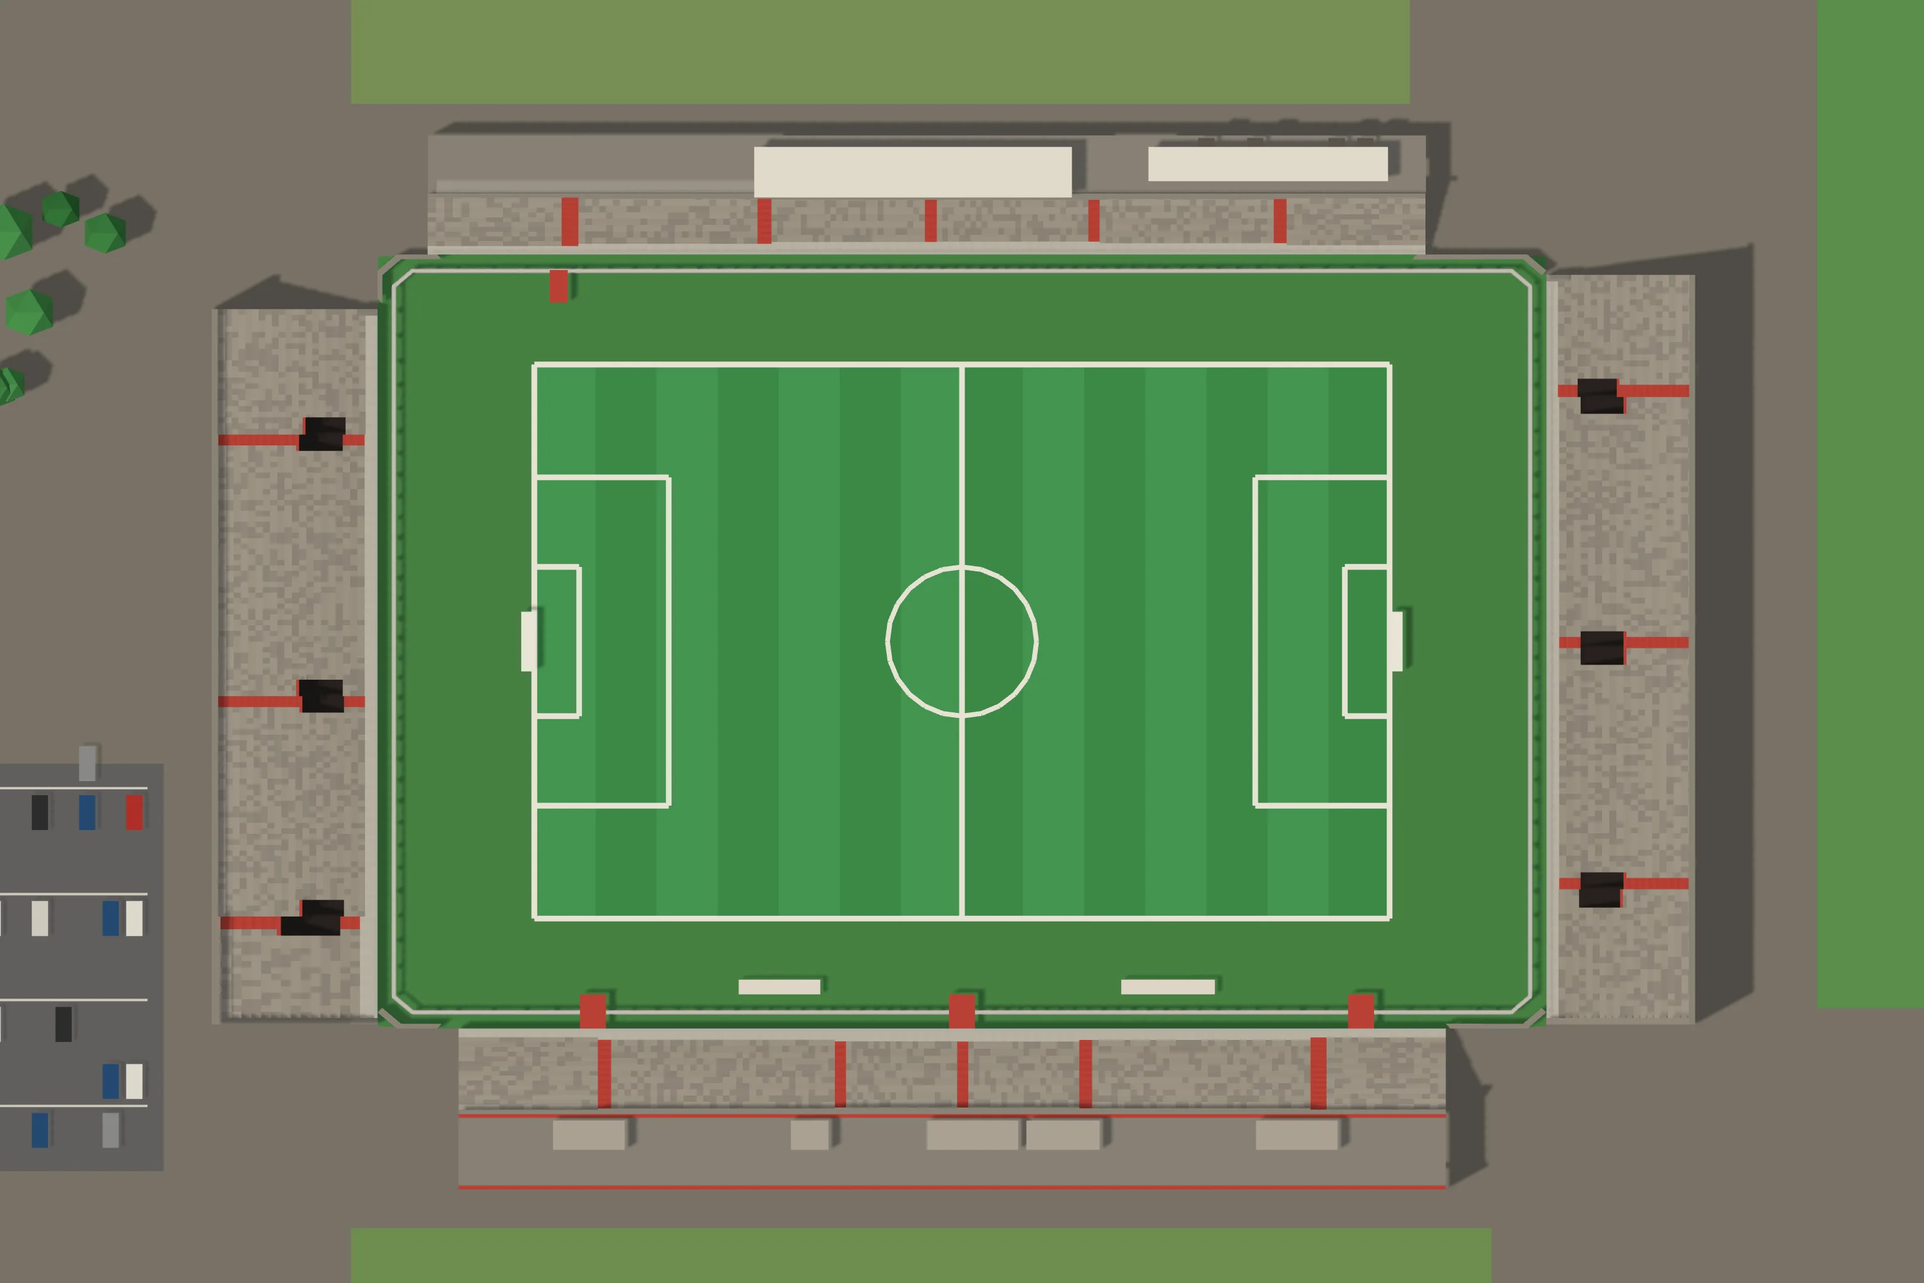
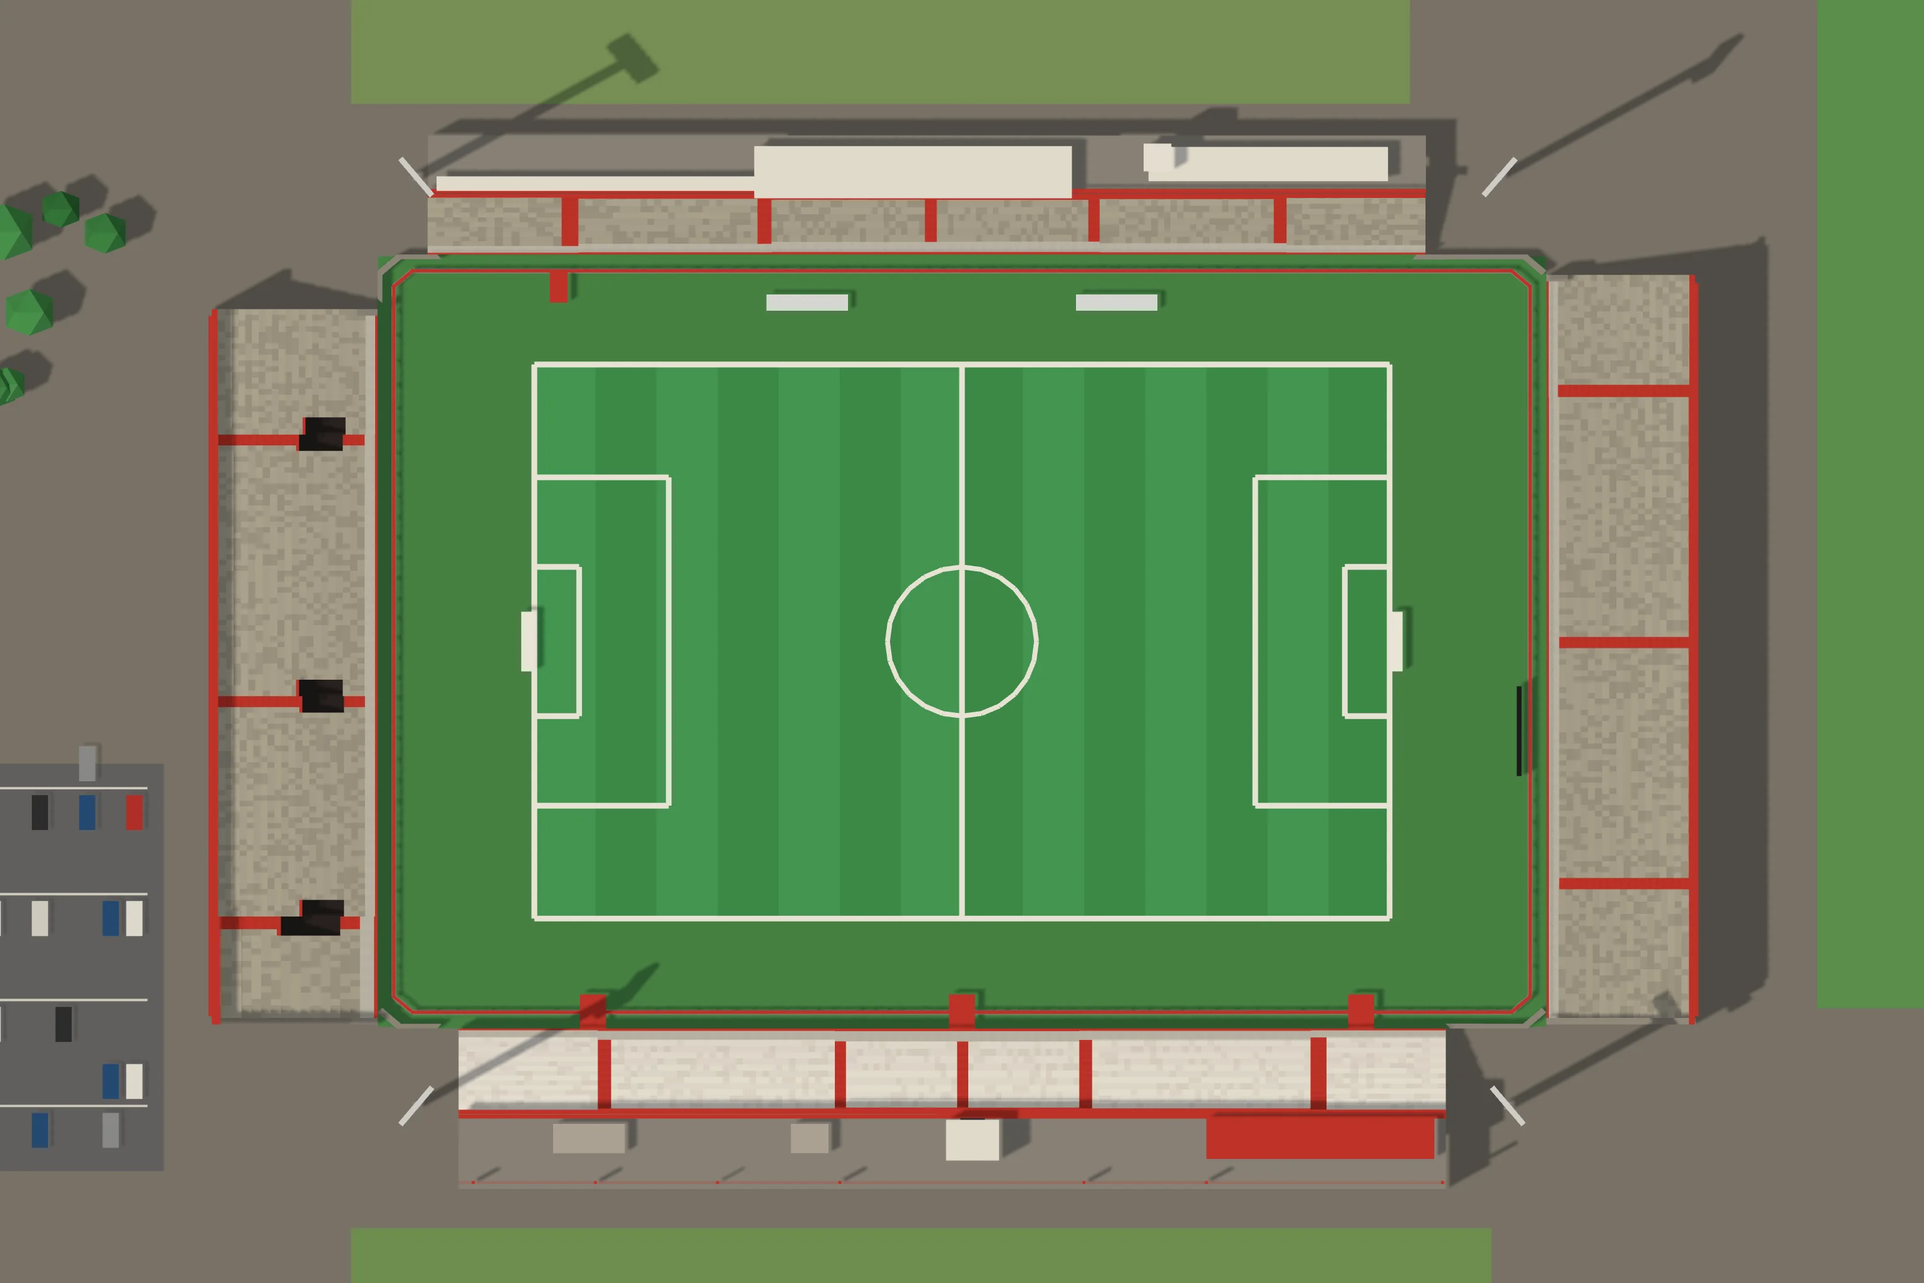
Giulite Coutinho pelas fotos do dono: dizeres dos fundos, arquibancadas elevadas, lateral branca, torres e placar
Claude-Session: https://claude.ai/code/session_019hwwMAyyP7ZAvyq6wYTetr

diff --git a/cenario3d/planta.html b/cenario3d/planta.html
@@ -289,24 +289,24 @@ button:focus-visible, input:focus-visible { outline: 2px solid var(--selecao); o
 
 <script type="module">
 import * as THREE from 'https://cdn.jsdelivr.net/npm/three@0.160.0/build/three.module.min.js';
-import { planoDaCasa, montarCasa, juntarBlocos, lugarDoDecalque, placasDoLote, segmentosDoMuro, carrosDoEstacionamento, portaoDoEstacionamento } from './js/casas3d.js?v=61d30abeb0';
-import { montarModelos } from './js/modelos3d.js?v=61d30abeb0';
-import { moldeDaPeca, comTransformador } from './js/props3d.js?v=61d30abeb0';
-import { ATLAS } from './js/modelos_atlas.js?v=61d30abeb0';
-import { Construtor, sorteio } from './js/construtor3d.js?v=61d30abeb0';
-import { gerarProposta, MAPAS, MAPA_DO_PORTE, RUA, LONGE_DO_ESTADIO_M, cisaoDaPraca, VAO_CIDADES_M, PRAIA_A_MAIS } from './js/proposta.js?v=61d30abeb0';
-import { montarSede, nivelQueCabe } from './js/sede3d.js?v=61d30abeb0';
-import { onibus as onibusDetalhe, juntar as juntarDetalhe } from './js/detalhe3d.js?v=61d30abeb0';
-import { montarLoteDeVeraneio, plantaDoLote, festaNoMundo, noMundoDoLote, cenaDaFesta, detalheDaCasaDaFesta } from './js/veraneio3d.js?v=61d30abeb0';
-import { montarCaravana, cenaDaCaravana } from './js/caravana3d.js?v=61d30abeb0';
-import { montarEstacao, montarTunel, montarCarro, TREM } from './js/metro3d.js?v=61d30abeb0';
-import { montarShopping, montarDelegacia, montarPraca, montarIgreja, montarEscola, montarHospital } from './js/equip3d.js?v=61d30abeb0';
-import { montarEquipAntigo, TIPOS_ANTIGOS } from './js/equip_antigo3d.js?v=61d30abeb0';
-import { PECAS_PRAIA, montarPecaDaPraia } from './js/praia3d.js?v=61d30abeb0';
-import { ESPECIES_LP, FLORA_LP, montarArvoreLowpoly, montarAsDez, facesDaArvore, especieLowpolyDe } from './js/arvores_lowpoly.js?v=61d30abeb0';
-import { plantarMato, montarMato, LONGE_M, DENSIDADE, LADRILHO_M } from './js/mato3d.js?v=61d30abeb0';
-import { ESTADIOS_JOGO, montarEstadioJogo, glbDoEstadio, cortarEstadio, plantaDoEstadio, modeloDaLotacao, nomeDoLetreiro, nomeComAcento, marcaDoEstadio, BOCAS_DOS_PORTOES, BILHETERIAS_DA_RUA } from './js/estadios3d.js?v=61d30abeb0';
-import { PECAS_AMBULANTES, montarAmbulante } from './js/ambulantes3d.js?v=61d30abeb0';
+import { planoDaCasa, montarCasa, juntarBlocos, lugarDoDecalque, placasDoLote, segmentosDoMuro, carrosDoEstacionamento, portaoDoEstacionamento } from './js/casas3d.js?v=4b17414e54';
+import { montarModelos } from './js/modelos3d.js?v=4b17414e54';
+import { moldeDaPeca, comTransformador } from './js/props3d.js?v=4b17414e54';
+import { ATLAS } from './js/modelos_atlas.js?v=4b17414e54';
+import { Construtor, sorteio } from './js/construtor3d.js?v=4b17414e54';
+import { gerarProposta, MAPAS, MAPA_DO_PORTE, RUA, LONGE_DO_ESTADIO_M, cisaoDaPraca, VAO_CIDADES_M, PRAIA_A_MAIS } from './js/proposta.js?v=4b17414e54';
+import { montarSede, nivelQueCabe } from './js/sede3d.js?v=4b17414e54';
+import { onibus as onibusDetalhe, juntar as juntarDetalhe } from './js/detalhe3d.js?v=4b17414e54';
+import { montarLoteDeVeraneio, plantaDoLote, festaNoMundo, noMundoDoLote, cenaDaFesta, detalheDaCasaDaFesta } from './js/veraneio3d.js?v=4b17414e54';
+import { montarCaravana, cenaDaCaravana } from './js/caravana3d.js?v=4b17414e54';
+import { montarEstacao, montarTunel, montarCarro, TREM } from './js/metro3d.js?v=4b17414e54';
+import { montarShopping, montarDelegacia, montarPraca, montarIgreja, montarEscola, montarHospital } from './js/equip3d.js?v=4b17414e54';
+import { montarEquipAntigo, TIPOS_ANTIGOS } from './js/equip_antigo3d.js?v=4b17414e54';
+import { PECAS_PRAIA, montarPecaDaPraia } from './js/praia3d.js?v=4b17414e54';
+import { ESPECIES_LP, FLORA_LP, montarArvoreLowpoly, montarAsDez, facesDaArvore, especieLowpolyDe } from './js/arvores_lowpoly.js?v=4b17414e54';
+import { plantarMato, montarMato, LONGE_M, DENSIDADE, LADRILHO_M } from './js/mato3d.js?v=4b17414e54';
+import { ESTADIOS_JOGO, montarEstadioJogo, glbDoEstadio, cortarEstadio, plantaDoEstadio, modeloDaLotacao, nomeDoLetreiro, nomeComAcento, marcaDoEstadio, BOCAS_DOS_PORTOES, BILHETERIAS_DA_RUA } from './js/estadios3d.js?v=4b17414e54';
+import { PECAS_AMBULANTES, montarAmbulante } from './js/ambulantes3d.js?v=4b17414e54';
 
 const $ = id => document.getElementById(id);
 const aviso = $('aviso');
@@ -323,25 +323,25 @@ function carregarScript(src) {
 }
 window.TO = window.TO || { dados: {} };
 try {
-  await carregarScript('dados/torcidas.js?v=61d30abeb0');
-  await carregarScript('dados/times.js?v=61d30abeb0');
-  await carregarScript('dados/cena_estadio.js?v=61d30abeb0');
-  await carregarScript('dados/cidades.js?v=61d30abeb0');
-  await carregarScript('dados/estadios.js?v=61d30abeb0');
-  await carregarScript('dados/escudos.js?v=61d30abeb0');
+  await carregarScript('dados/torcidas.js?v=4b17414e54');
+  await carregarScript('dados/times.js?v=4b17414e54');
+  await carregarScript('dados/cena_estadio.js?v=4b17414e54');
+  await carregarScript('dados/cidades.js?v=4b17414e54');
+  await carregarScript('dados/estadios.js?v=4b17414e54');
+  await carregarScript('dados/escudos.js?v=4b17414e54');
   /* o manifesto das faixas de verdade (a arte do dono, 29/09/2026): a arquibancada estende a da torcida */
-  await carregarScript('dados/faixas.js?v=61d30abeb0').catch(() => {});
+  await carregarScript('dados/faixas.js?v=4b17414e54').catch(() => {});
   /* O DOMÍNIO DOS BAIRROS (o dono, 30/09/2026): as sedes repetidas num
      bairro saem espalhadas (nos dados, na carga) e os bares ganham o
      bairro deles — o mesmo módulo do jogo (js/mundo/dominio.js) */
-  await carregarScript('js/dominio.js?v=61d30abeb0').catch(() => {});
+  await carregarScript('js/dominio.js?v=4b17414e54').catch(() => {});
 } catch (e) {
   aviso.textContent = 'A planta da cidade não carregou (' + e.message + '). Recarregue a página.';
   throw e;
 }
 /* os PNG dos escudos, embutidos (o montar.sh gera): sem o arquivo, o
    caminho vai direto pra img/escudos/ */
-await carregarScript('dados/escudos_embutidos.js?v=61d30abeb0').catch(() => {});
+await carregarScript('dados/escudos_embutidos.js?v=4b17414e54').catch(() => {});
 const P = TO.dados.plantaEstadio, K = P.CIDADE, M = P.METRO, CALC = K.CALC;
 /* o mapa da vez (o pequeno, o médio ou o grande, montado pra praça
    escolhida): quem monta é usarMapa, lá embaixo */

diff --git a/cenario3d/dados/estadios_cenas.js b/cenario3d/dados/estadios_cenas.js
@@ -14567,7 +14567,7 @@ window.__ESTADIOS = {
    "visitante": 3
   },
   "foto": {
-   "imagem": "img/cenas/estadio_giulite_coutinho.webp?v=6a7214b4",
+   "imagem": "img/cenas/estadio_giulite_coutinho.webp?v=d06fc9ec",
    "mascara": "384;384;384;384;384;384;384;384;384;384;384;384;384;384;384;384;384;384;384;384;384;384;384;384;384;384;384;384;384;384;384;384;384;384;384;384;384;384;384;76,222,86;76,221,87;76,220,88;76,218,90;76,217,91;77,215,92;78,213,93;80,210,94;81,207,96;82,205,97;84,202,98;84,201,99;43,14,18,234,5,23,47;43,16,16,234,4,24,47;43,18,14,4,226,4,2,26,47;43,20,12,3,228,31,47;43,21,11,3,228,31,47;43,23,9,3,228,31,47;43,25,7,3,228,31,47;43,27,5,3,228,31,47;43,28,4,3,228,31,47;43,30,2,3,228,31,47;43,35,228,31,47;43,35,228,31,47;43,35,228,31,47;43,35,228,31,47;43,35,228,31,47;43,35,228,31,47;43,35,228,31,47;43,35,228,31,47;43,35,228,31,47;43,35,228,31,47;43,35,228,31,47;43,35,228,31,47;43,35,228,31,47;43,35,228,31,47;43,35,228,31,47;43,35,228,31,47;43,35,228,31,47;43,35,228,31,47;43,35,228,31,47;43,35,228,31,47;43,35,228,31,47;43,35,228,31,47;43,35,228,31,47;43,35,228,31,47;43,35,228,31,47;43,35,228,31,47;43,35,228,31,47;43,35,228,31,47;43,35,228,31,47;43,35,228,31,47;43,35,228,31,47;43,35,228,31,47;43,35,228,31,47;43,35,228,31,47;43,35,228,31,47;43,35,228,31,47;43,35,228,31,47;43,35,228,31,47;43,35,228,31,47;43,35,228,31,47;43,35,228,31,47;43,35,228,31,47;43,35,228,31,47;43,35,228,31,47;43,35,228,31,47;43,35,228,31,47;43,35,228,31,47;43,35,228,31,47;43,35,228,31,47;43,35,228,31,47;43,35,228,31,47;43,35,228,31,47;43,35,228,31,47;43,35,228,31,47;43,35,228,31,47;43,35,228,31,47;43,35,228,31,47;43,35,228,31,47;43,35,228,31,47;43,35,228,31,47;43,35,228,31,47;43,35,228,31,47;43,35,228,31,47;43,35,228,31,47;43,35,228,31,47;43,35,228,31,47;43,35,228,31,47;43,35,228,31,47;43,35,228,31,47;43,35,228,31,47;43,35,228,31,47;43,35,228,31,47;43,35,228,31,47;43,35,228,31,47;43,35,228,31,47;43,35,228,31,47;43,35,228,31,47;43,35,228,31,47;43,35,228,31,47;43,35,228,31,47;43,35,228,31,47;43,35,228,31,47;43,35,228,31,47;43,35,228,31,47;43,35,228,31,47;43,35,228,31,47;43,35,228,31,47;43,35,228,31,47;43,35,228,31,47;43,35,228,31,47;43,35,228,31,47;43,35,228,31,47;43,35,228,31,47;43,35,228,31,47;43,35,228,31,47;43,35,228,31,47;43,35,228,31,47;43,35,228,31,47;43,35,228,31,47;43,35,228,31,47;43,35,228,31,47;43,35,228,31,47;43,35,228,31,47;43,35,228,31,47;43,35,228,31,47;43,35,228,31,47;43,35,228,31,47;43,35,228,31,47;43,35,228,31,47;43,35,228,31,47;43,35,228,31,47;43,35,228,31,47;43,35,228,31,47;43,35,228,31,47;43,35,228,31,47;43,35,228,31,47;43,35,228,31,47;43,35,228,31,47;43,35,228,31,47;43,35,228,31,47;43,35,228,31,47;43,35,228,31,47;43,35,228,31,47;43,35,228,31,47;43,35,228,31,47;43,35,228,31,47;43,35,228,31,47;43,35,228,31,47;43,35,228,31,47;43,35,228,31,47;43,35,228,31,47;43,35,228,31,47;43,35,228,31,47;43,35,228,31,47;43,35,228,31,47;43,35,228,31,47;43,35,228,31,47;43,35,228,31,47;43,35,228,31,47;43,35,228,31,47;43,35,228,31,47;43,36,226,32,47;43,294,47;43,294,47;91,198,95;90,200,94;89,202,93;87,206,91;86,208,90;85,210,89;83,213,88;82,216,86;81,218,85;80,220,84;78,223,83;77,226,81;76,228,80;76,229,79;76,230,78;76,232,76;76,54,124,54,76;384;384;384;384;384;384;384;384;384;384;384;384;384;384;384;384;384;384;384;384;384;384;384;384;384;384;384;384;384;384;384;384;384;384"
   },
   "cena": {

diff --git a/cenario3d/js/jogo2d.js b/cenario3d/js/jogo2d.js
@@ -17,7 +17,7 @@
    cartão da partida cai perto da hora da bola e nada do que conta o
    placar passa na frente dele.
    ========================================================= */
-import { CASCA } from './jogo_casca.js?v=61d30abeb0';
+import { CASCA } from './jogo_casca.js?v=4b17414e54';
 
 const carregarScript = src => new Promise((ok, erro) => {
   const s = document.createElement('script');
@@ -31,17 +31,17 @@ async function montarJogo() {
   caixa.innerHTML = CASCA;
   while (caixa.firstChild) document.body.appendChild(caixa.firstChild);
   /* os escudos, as fotos das praças e as bandeiras embutidos (o `IMG()` do jogo procura aqui antes do caminho) */
-  await carregarScript('dados/imagens_jogo.js?v=61d30abeb0').catch(() => {});
+  await carregarScript('dados/imagens_jogo.js?v=4b17414e54').catch(() => {});
   /* os estádios low-poly das cenas (ferramentas/estadios/assar.js): antes do jogo, que monta as cenas quando carrega */
-  await carregarScript('dados/estadios_cenas.js?v=61d30abeb0').catch(() => {});
+  await carregarScript('dados/estadios_cenas.js?v=4b17414e54').catch(() => {});
   /* sem o rolo do feed: a tela entre os jogos é o portal */
   window.TO = window.TO || {};
   TO.semFeed = true;
-  await carregarScript('js/jogo.js?v=61d30abeb0');
-  await carregarScript('js/portal.js?v=61d30abeb0').catch(err => console.error('o portal não carregou:', err));
+  await carregarScript('js/jogo.js?v=4b17414e54');
+  await carregarScript('js/portal.js?v=4b17414e54').catch(err => console.error('o portal não carregou:', err));
   /* o boneco das cenas de imagem (os dois níveis afinados, em base64) */
-  if (!TO.dados.bonecoPertoGLB) await carregarScript('dados/boneco_glb.js?v=61d30abeb0').catch(() => {});
-  await import('./bonecos3_global.js?v=61d30abeb0').catch(err => console.error('o boneco das cenas não carregou:', err));
+  if (!TO.dados.bonecoPertoGLB) await carregarScript('dados/boneco_glb.js?v=4b17414e54').catch(() => {});
+  await import('./bonecos3_global.js?v=4b17414e54').catch(err => console.error('o boneco das cenas não carregou:', err));
   ligar();
 }
 

diff --git a/cenario3d/jogo.html b/cenario3d/jogo.html
@@ -9,16 +9,16 @@
 <link rel="preconnect" href="https://fonts.googleapis.com">
 <link rel="preconnect" href="https://fonts.gstatic.com" crossorigin>
 <link rel="stylesheet" href="https://fonts.googleapis.com/css2?family=Barlow+Semi+Condensed:wght@500;600;700&family=Barlow:wght@400;500;600&family=IBM+Plex+Mono:wght@400;500&display=swap">
-<link rel="stylesheet" href="css/jogo.css?v=61d30abeb0">
-<link rel="stylesheet" href="css/jogo3d.css?v=61d30abeb0">
-<link rel="stylesheet" href="css/portal.css?v=61d30abeb0">
-<link rel="stylesheet" href="css/telas3d.css?v=61d30abeb0">
+<link rel="stylesheet" href="css/jogo.css?v=4b17414e54">
+<link rel="stylesheet" href="css/jogo3d.css?v=4b17414e54">
+<link rel="stylesheet" href="css/portal.css?v=4b17414e54">
+<link rel="stylesheet" href="css/telas3d.css?v=4b17414e54">
 <style>
 [hidden] { display: none !important; }
 html, body { height: 100%; margin: 0; }
 </style>
 </head>
 <body class="jogo3d">
-<script type="module" src="js/jogo2d.js?v=61d30abeb0"></script>
+<script type="module" src="js/jogo2d.js?v=4b17414e54"></script>
 </body>
 </html>

diff --git a/cenario3d/js/casas3d.js b/cenario3d/js/casas3d.js
@@ -60,10 +60,10 @@
    avançam (`rec`), e o letreiro, a pixação e a falha de reboco do
    bairro vão pro plano dessa parede, não pro da divisa.
    ========================================================= */
-import { Construtor, METRO, mureta, toldo, arSplit, sorteio } from './construtor3d.js?v=61d30abeb0';
-import { ATLAS } from './modelos_atlas.js?v=61d30abeb0';
+import { Construtor, METRO, mureta, toldo, arSplit, sorteio } from './construtor3d.js?v=4b17414e54';
+import { ATLAS } from './modelos_atlas.js?v=4b17414e54';
 /* as lojas do assalto (lojas3d.js): modelos de lote como os outros */
-import { TIPOS_LOJA, REC_LOJA, placaDaLoja } from './lojas3d.js?v=61d30abeb0';
+import { TIPOS_LOJA, REC_LOJA, placaDaLoja } from './lojas3d.js?v=4b17414e54';
 
 /* o arquivo de cada folha, pro bairro montar o material dele */
 export const arquivoDaFolha = folha => ATLAS[folha].arquivo;

diff --git a/cenario3d/js/ambulantes3d.js b/cenario3d/js/ambulantes3d.js
@@ -27,8 +27,8 @@
    que a planta acha o lugar dela na calçada do estádio. `sol`: o meio e
    o raio da copa ([x, z, r]), que o mapa desenha de perto.
    ========================================================= */
-import { Construtor, noMundo, placasNoMundo, sorteio, esfera, unit } from './construtor3d.js?v=61d30abeb0';
-import { Lugar, barra, tubo, cilindro, bloco, pano, toro, guardaSol, cadeiraPlastica, isopor, banqueta, CORES_SOL } from './praia3d.js?v=61d30abeb0';
+import { Construtor, noMundo, placasNoMundo, sorteio, esfera, unit } from './construtor3d.js?v=4b17414e54';
+import { Lugar, barra, tubo, cilindro, bloco, pano, toro, guardaSol, cadeiraPlastica, isopor, banqueta, CORES_SOL } from './praia3d.js?v=4b17414e54';
 
 const AQUI = Lugar();
 const escolha = (rnd, lista) => lista[Math.floor(rnd() * lista.length) % lista.length];

diff --git a/cenario3d/js/praia3d.js b/cenario3d/js/praia3d.js
@@ -36,8 +36,8 @@
    cadeira e a mesa de plástico) servem também os ambulantes da porta do
    estádio (ambulantes3d.js), na mesma folha.
    ========================================================= */
-import { Construtor, METRO, lerp, sub, soma, esc, unit, pv, noMundo, placasNoMundo, sorteio, varrer, esfera } from './construtor3d.js?v=61d30abeb0';
-import { montarArvoreLowpoly } from './arvores_lowpoly.js?v=61d30abeb0';
+import { Construtor, METRO, lerp, sub, soma, esc, unit, pv, noMundo, placasNoMundo, sorteio, varrer, esfera } from './construtor3d.js?v=4b17414e54';
+import { montarArvoreLowpoly } from './arvores_lowpoly.js?v=4b17414e54';
 
 const ALTO = [0, 1, 0];
 const escolha = (rnd, lista) => lista[Math.floor(rnd() * lista.length) % lista.length];

diff --git a/cenario3d/js/modelos3d.js b/cenario3d/js/modelos3d.js
@@ -32,8 +32,8 @@
    requadro da janela, toldo, ar-condicionado. O resto é pintura.
    ========================================================= */
 import * as THREE from 'https://cdn.jsdelivr.net/npm/three@0.160.0/build/three.module.min.js';
-import { ATLAS } from './modelos_atlas.js?v=61d30abeb0';
-import { Construtor, METRO, lerp, sub, soma, esc, pv, pe, unit, recuoPoligono, mureta, toldo, arSplit } from './construtor3d.js?v=61d30abeb0';
+import { ATLAS } from './modelos_atlas.js?v=4b17414e54';
+import { Construtor, METRO, lerp, sub, soma, esc, pv, pe, unit, recuoPoligono, mureta, toldo, arSplit } from './construtor3d.js?v=4b17414e54';
 
 /* =======================================================
    1. A IGREJA MATRIZ

diff --git a/cenario3d/js/props3d.js b/cenario3d/js/props3d.js
@@ -26,8 +26,8 @@
    poste vira uma haste de longe; o resto, que é miúdo, some.
    ========================================================= */
 import * as THREE from 'https://cdn.jsdelivr.net/npm/three@0.160.0/build/three.module.min.js';
-import { ATLAS } from './modelos_atlas.js?v=61d30abeb0';
-import { Construtor, METRO, lerp } from './construtor3d.js?v=61d30abeb0';
+import { ATLAS } from './modelos_atlas.js?v=4b17414e54';
+import { Construtor, METRO, lerp } from './construtor3d.js?v=4b17414e54';
 
 /* as cores que o vértice dá pro que sai claro na folha */
 const COR_CESTO = ['#6aa33a', '#d2b53a', '#3f82ad', '#8b6a3c', '#b8452f'];

diff --git a/cenario3d/js/mato3d.js b/cenario3d/js/mato3d.js
@@ -19,8 +19,8 @@
 
    Tudo em metros; `noMundo` converte. A mesma semente dá o mesmo mato.
    ========================================================= */
-import { METRO, noMundo, sorteio } from './construtor3d.js?v=61d30abeb0';
-import { facesDaArvore, especieLowpolyDe } from './arvores_lowpoly.js?v=61d30abeb0';
+import { METRO, noMundo, sorteio } from './construtor3d.js?v=4b17414e54';
+import { facesDaArvore, especieLowpolyDe } from './arvores_lowpoly.js?v=4b17414e54';
 
 /* a área de chão de cada árvore (m²), por lugar */
 export const DENSIDADE = { mata: 70, cerrado: 200, caatinga: 150, sul: 90, praia: 120, cidade: 250 };

diff --git a/cenario3d/js/bonecos3_global.js b/cenario3d/js/bonecos3_global.js
@@ -14,7 +14,7 @@
    DOMContentLoaded: quem usa (a ponte, numa cena aberta pelo jogador)
    chega muito depois.
    ========================================================= */
-import { montar, desenharDeCima, desenharVitrine, limparDeCima, fotoDoTrofeu, fotoDaBriga, fotoDaCena, perdeu, bonecos } from './bonecos3_cena.js?v=61d30abeb0';
+import { montar, desenharDeCima, desenharVitrine, limparDeCima, fotoDoTrofeu, fotoDaBriga, fotoDaCena, perdeu, bonecos } from './bonecos3_cena.js?v=4b17414e54';
 
 window.TO = window.TO || {};
 TO.diaJogo = TO.diaJogo || {};

diff --git a/cenario3d/js/bonecos3_cena.js b/cenario3d/js/bonecos3_cena.js
@@ -103,7 +103,7 @@
       numa fase sorteada (quem sai junto não sai no mesmo pé).
    ========================================================= */
 import * as THREE from 'https://cdn.jsdelivr.net/npm/three@0.160.0/build/three.module.min.js';
-import { GLTFLoader, SkeletonUtils } from './GLTFLoader.js?v=61d30abeb0';
+import { GLTFLoader, SkeletonUtils } from './GLTFLoader.js?v=4b17414e54';
 
 /* onde o modelo mora, quando não vem embutido em base64: o detalhado
    (o do Blender) e os dois níveis afinados dele (ferramentas/afinar_boneco.mjs) */
